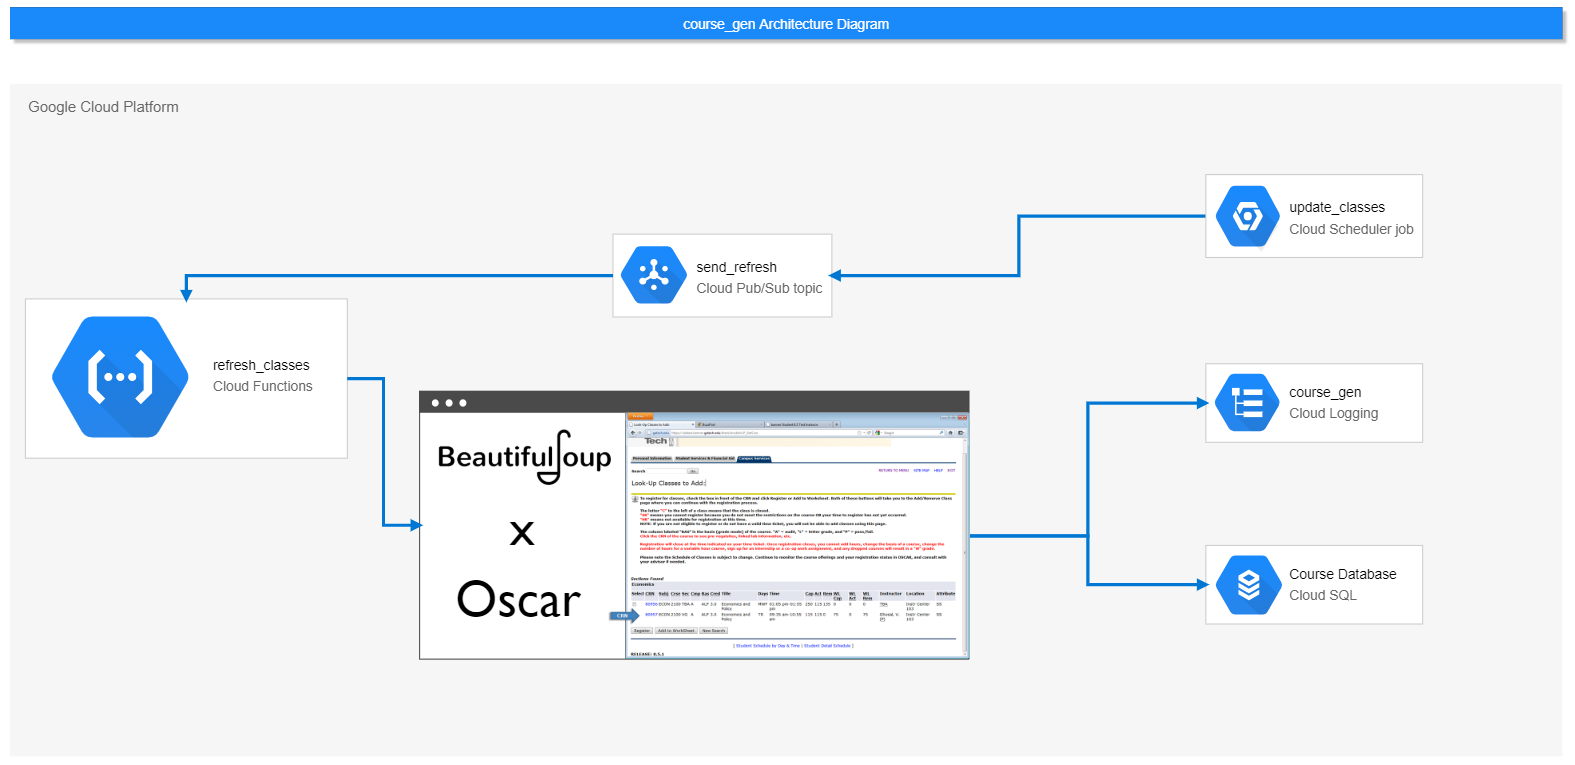
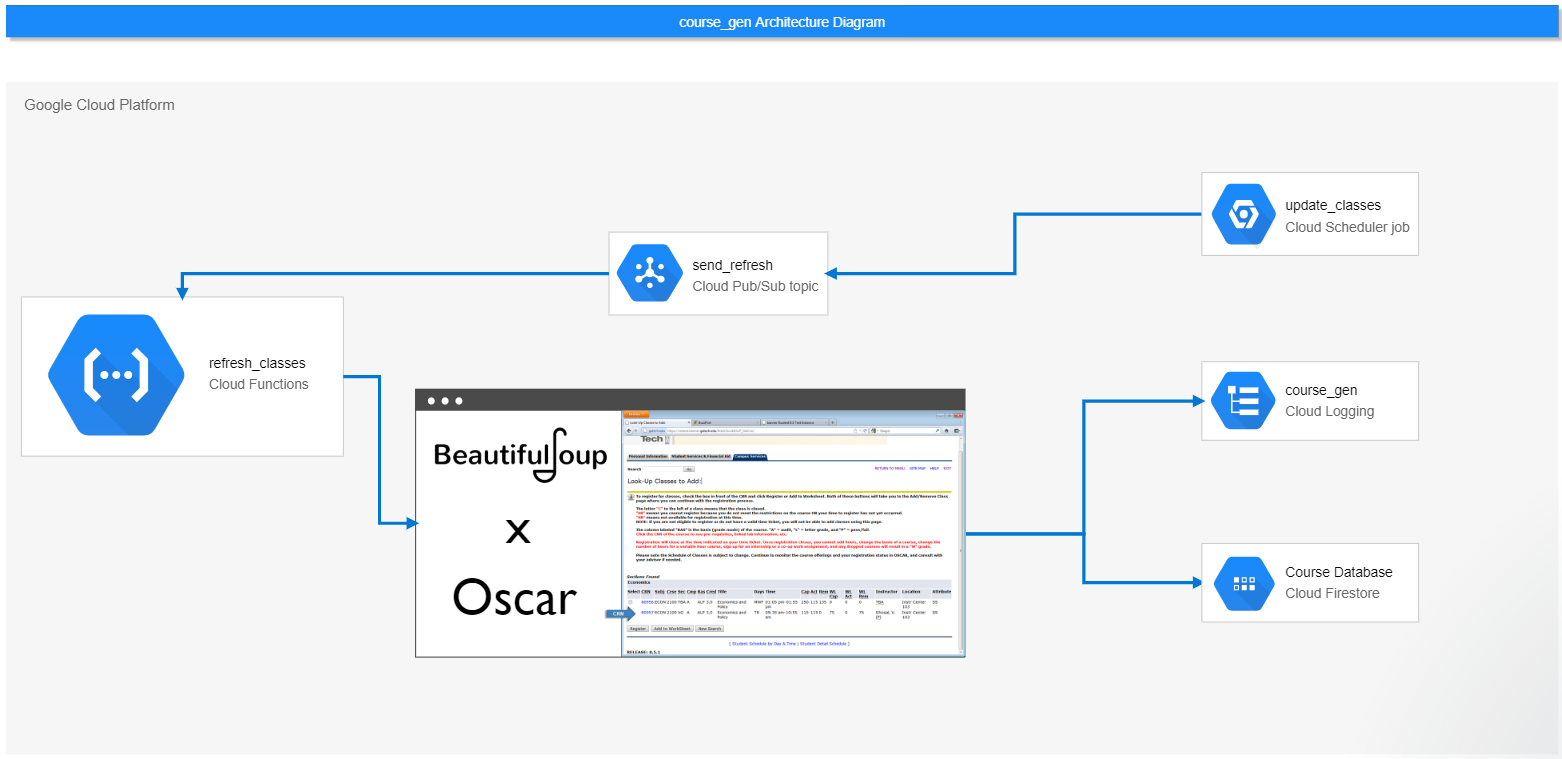
switched from mysql to firestore

diff --git a/main.py b/main.py
@@ -1,48 +1,14 @@
 import re
 import requests
-import sqlalchemy
+import firebase_admin
 import os
+from firebase_admin import firestore
 from google.cloud import logging
 from google.cloud.logging.resource import Resource
 from bs4 import BeautifulSoup
 from datetime import datetime
 from time import sleep, perf_counter
-from typing import List
 from config import *
-
-
-def check_if_table_exists(db):
-    with db.connect() as cursor:
-        table_exists = cursor.execute(f"SHOW TABLES LIKE '{PRIMARY_TABLE_NAME}';")
-
-        if not table_exists.rowcount:
-            cursor.execute(f"CREATE TABLE {PRIMARY_TABLE_NAME} ("
-                           f"id INT PRIMARY KEY,"
-                           f"code VARCHAR(255) NOT NULL,"
-                           f"name VARCHAR(255) NOT NULL,"
-                           f"credits FLOAT NOT NULL,"
-                           f"seats_capacity INT NOT NULL,"
-                           f"seats_actual INT NOT NULL,"
-                           f"seats_remaining INT NOT NULL,"
-                           f"waitlist_capacity INT NOT NULL,"
-                           f"waitlist_actual INT NOT NULL,"
-                           f"waitlist_remaining INT NOT NULL,"
-                           f"restrictions TEXT(65535) ,"
-                           f"prerequisites TEXT(65535),"
-                           f"last_updated TIMESTAMP NOT NULL"
-                           f");")
-
-
-def upsert_mysql(db, id: str, code: str, name: str, credits: float, seats: List, waitlist: List,
-                 restrictions: str, prerequisites: str):
-    with db.connect() as cursor:
-        cursor.execute(
-            f"REPLACE INTO {PRIMARY_TABLE_NAME} (id, code, name, credits, seats_capacity, seats_actual, "
-            f"seats_remaining, waitlist_capacity, waitlist_actual, waitlist_remaining, restrictions, prerequisites, "
-            f"last_updated) "
-            f"VALUES (\"{id}\", \"{code}\", \"{name}\", {credits}, {seats[0]}, {seats[1]}, {seats[2]}, {waitlist[0]}, "
-            f"{waitlist[1]}, {waitlist[2]}, \"{restrictions}\", \"{prerequisites}\", "
-            f"\"{datetime.now()}\");")
 
 
 def gen_google_cloud_logger(project_id):
@@ -57,46 +23,16 @@ def gen_google_cloud_logger(project_id):
     return log_client.logger('cloudfunctions.googleapis.com%2Fcloud-functions'.format(project_id)), res
 
 
-def gen_sqlalchemy_engine(env):
-    if env == "local":
-        return sqlalchemy.create_engine(
-            sqlalchemy.engine.url.URL(
-                drivername="mysql+pymysql",
-                username=os.environ.get("DB_USER"),
-                password=os.environ.get("DB_PASS"),
-                host=os.environ.get("DB_HOST"),
-                port=3306,
-                database=PRIMARY_TABLE_NAME
-            ),
-            pool_size=5,
-            max_overflow=2,
-            pool_timeout=30,
-            pool_recycle=1800
-        )
-    else:
-        return sqlalchemy.create_engine(
-            sqlalchemy.engine.url.URL(
-                drivername="mysql+pymysql",
-                username=os.environ.get("DB_USER"),
-                password=os.environ.get("DB_PASS"),
-                database=PRIMARY_TABLE_NAME,
-                query={"unix_socket": "/cloudsql/{}".format(os.environ.get("CLOUD_SQL_CONNECTION_NAME"))}
-            ),
-            pool_size=5,
-            max_overflow=2,
-            pool_timeout=30,
-            pool_recycle=1800
-        )
-
-
 def main(data, context):
     logger, res = gen_google_cloud_logger(os.environ.get("PROJECT_ID"))
 
-    db = gen_sqlalchemy_engine(os.environ.get("ENV"))
+    cred = firebase_admin.credentials.ApplicationDefault()
+
+    firebase_admin.initialize_app(cred, {"projectId": os.environ.get("PROJECT_ID")})
+
+    firebase_db = firestore.client()
 
     start_time = perf_counter()
-
-    check_if_table_exists(db)
 
     for i in range(START_IDX, END_IDX):
         print(i)
@@ -158,8 +94,25 @@ def main(data, context):
                 class_restrictions = None
 
         # Send all collected class metadata
-        upsert_mysql(db, class_id, class_code, class_name, class_credits, class_seats, class_waitlist_seats,
-                     class_restrictions, class_prerequisites)
+        firebase_db.collection(u'{}'.format(PRIMARY_TABLE_NAME)).document(u'{}'.format(class_id)).set({
+            "id": class_id,
+            "code": class_code,
+            "name": class_name,
+            "credits": class_credits,
+            "seats": {
+                "capacity": class_seats[0],
+                "actual": class_seats[1],
+                "remaining": class_seats[2]
+            },
+            "waitlist": {
+                "capacity": class_waitlist_seats[0],
+                "actual": class_waitlist_seats[1],
+                "remaining": class_waitlist_seats[2]
+            },
+            "restrictions": class_restrictions,
+            "prerequisites": class_prerequisites,
+            "last_updated": datetime.now()
+        })
 
     logger.log_text(f"Total seconds elapsed: {perf_counter() - start_time}", resource=res, severity="INFO")
 
